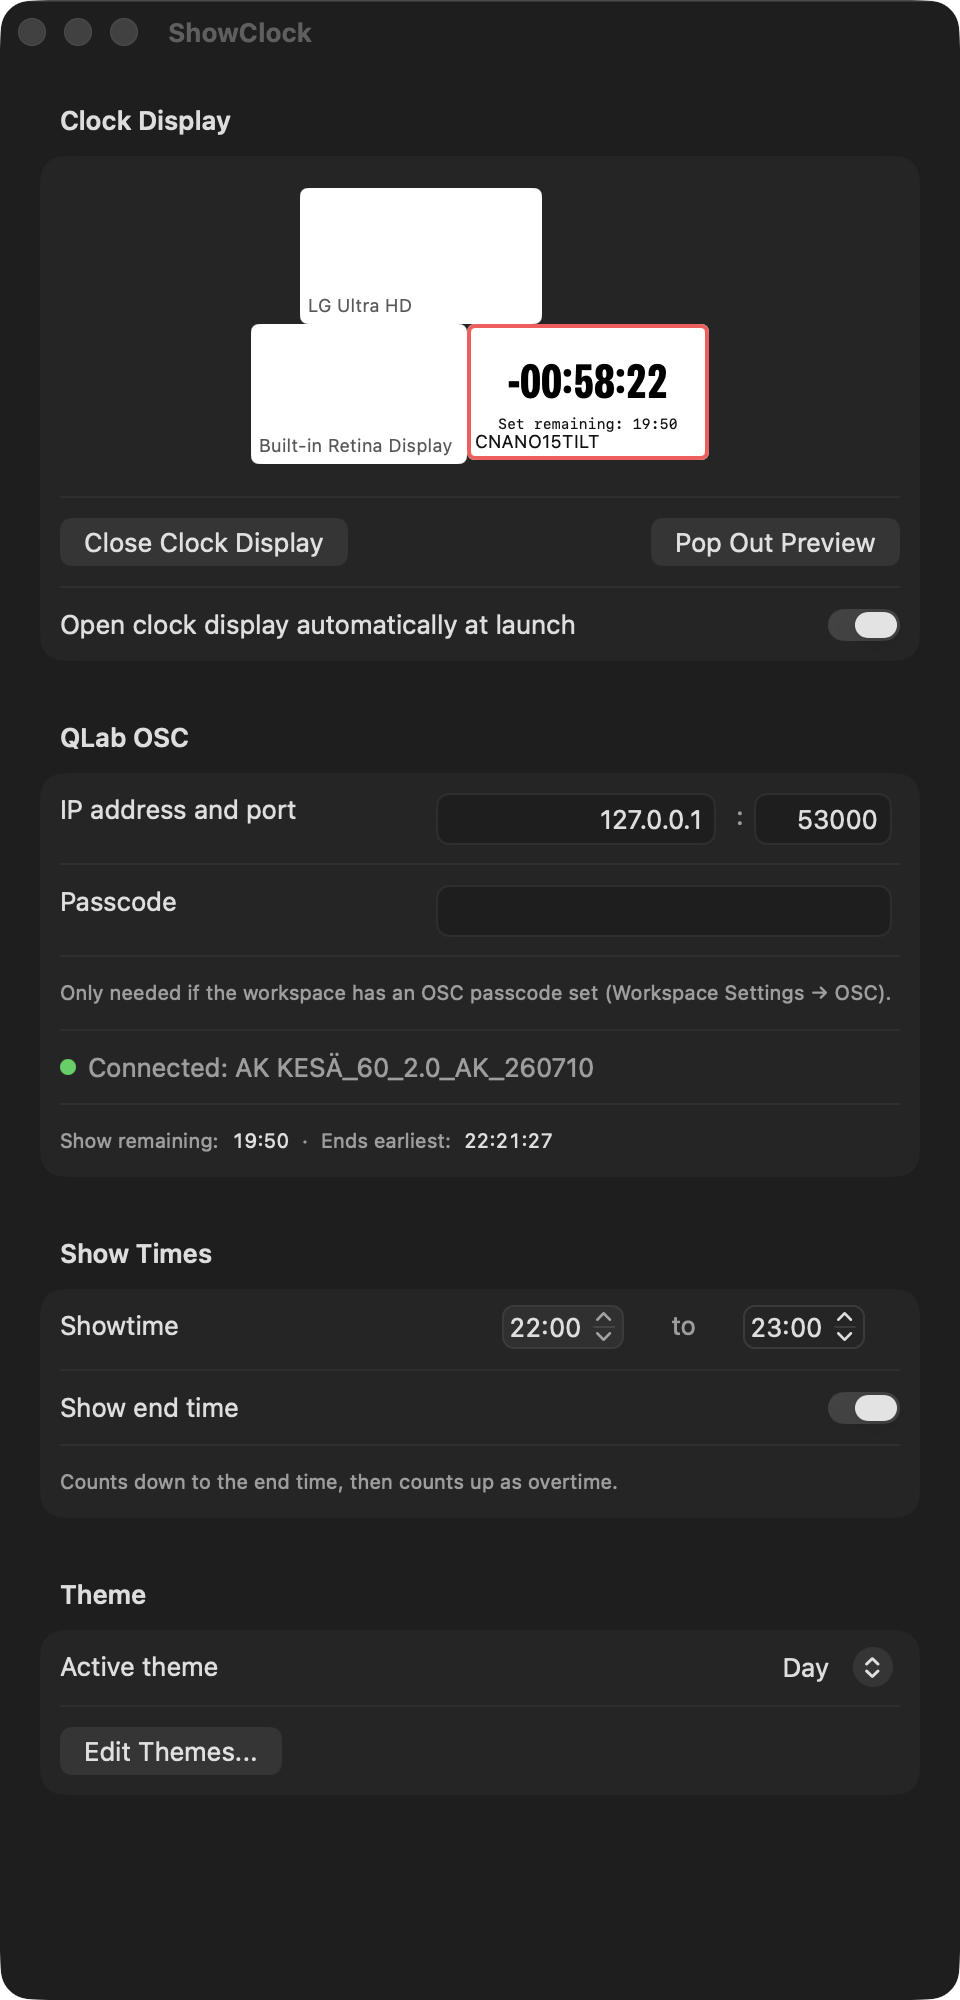
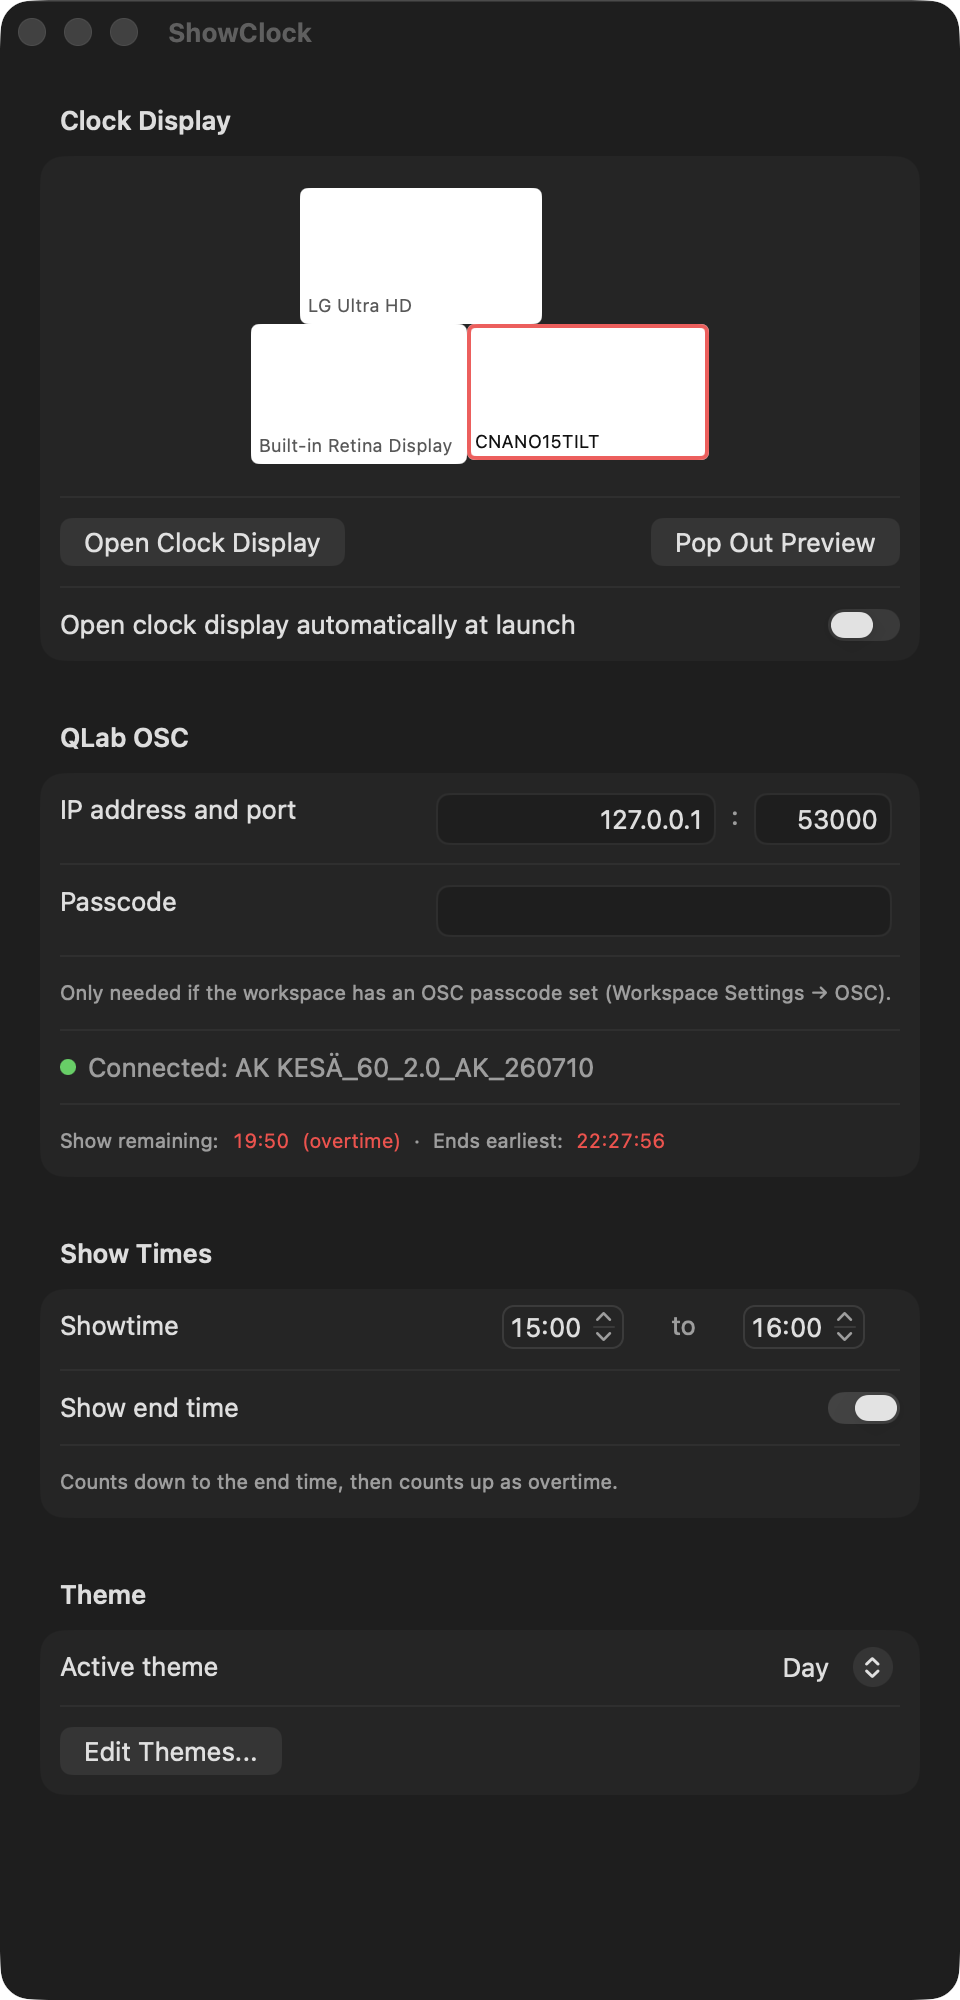
Centre the endpoint colon, and say what the reply port actually is
Equal HStack spacing still left the colon looking off: its left side
bearing is wider than its right, so the dots sat ~2.5pt closer to the port
field than to the host field. Nudged horizontally as well as vertically so
it reads centred between the two boxes.

"The local port QLab's OSC replies arrive on" didn't make clear this is a
port on this Mac that ShowClock itself listens on, not something to
configure in QLab — which is the only reason anyone would open Advanced
Settings and then wonder why changing it didn't match anything in QLab.

Claude-Session: https://claude.ai/code/session_01Q7MbnAwNDDNtDy4pWbSyjC

diff --git a/Sources/ShowClock/MainView.swift b/Sources/ShowClock/MainView.swift
@@ -88,13 +88,15 @@ struct MainView: View {
                             .textFieldStyle(.roundedBorder)
                             .multilineTextAlignment(.trailing)
                             .focused($focusedField, equals: .host)
-                        // Nudged up ~2pt: a colon's dots sit down near the
+                        // Nudged to sit optically centred between the two
+                        // boxes. Vertically, a colon's dots sit down near the
                         // baseline while its line box reserves ascender space
-                        // above, so left alone it reads visibly low against
-                        // the vertical centre of the two field boxes.
+                        // above. Horizontally, its left side bearing is wider
+                        // than its right, so equal HStack spacing still left
+                        // the dots ~2.5pt closer to the port field.
                         Text(":")
                             .foregroundStyle(.secondary)
-                            .offset(y: -2)
+                            .offset(x: -2.5, y: -2)
                         TextField("", text: $portText)
                             .textFieldStyle(.roundedBorder)
                             .multilineTextAlignment(.trailing)

diff --git a/Sources/ShowClock/AdvancedSettingsView.swift b/Sources/ShowClock/AdvancedSettingsView.swift
@@ -40,7 +40,7 @@ struct AdvancedSettingsView: View {
                             }
                         }
                 }
-                Text("The local port QLab's OSC replies arrive on.")
+                Text("A port on this Mac that ShowClock listens on for QLab's replies — not a QLab setting. Only change it if something else is already using 53001.")
                     .font(.caption)
                     .foregroundStyle(.secondary)
             }
